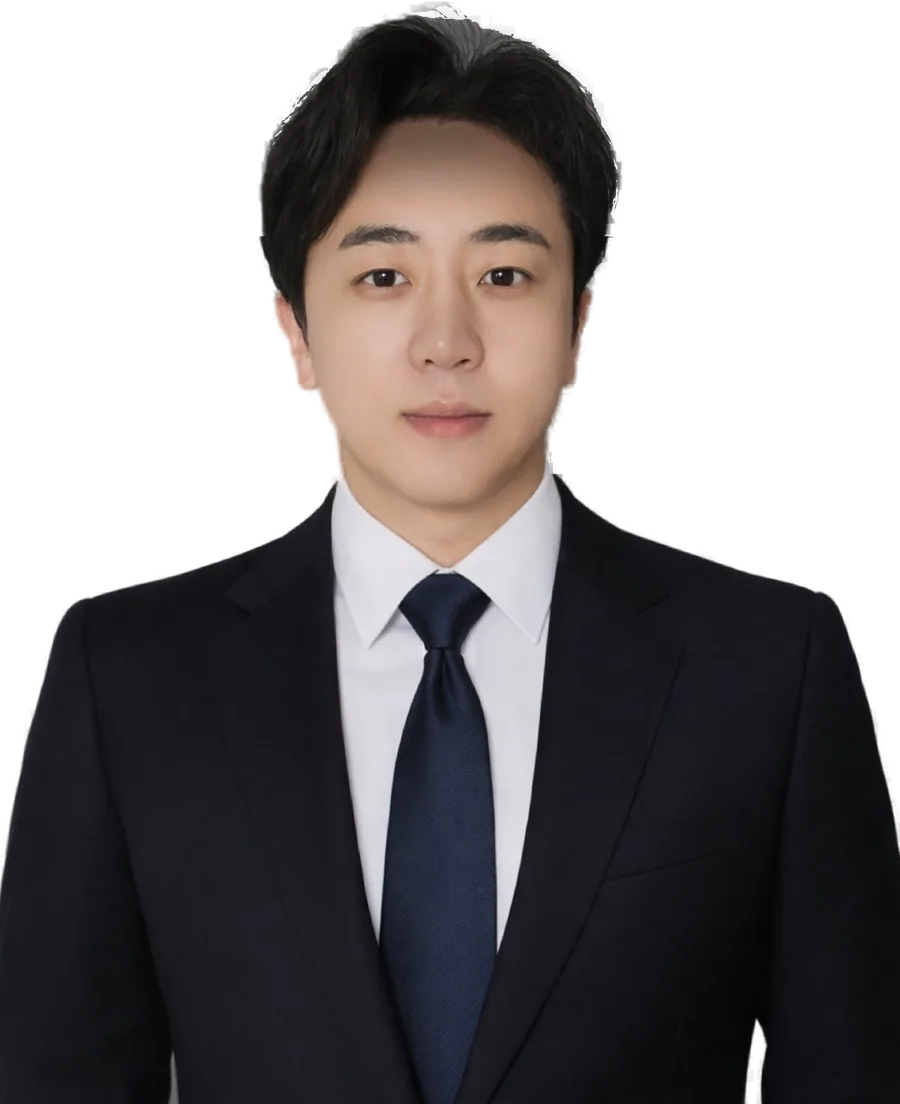
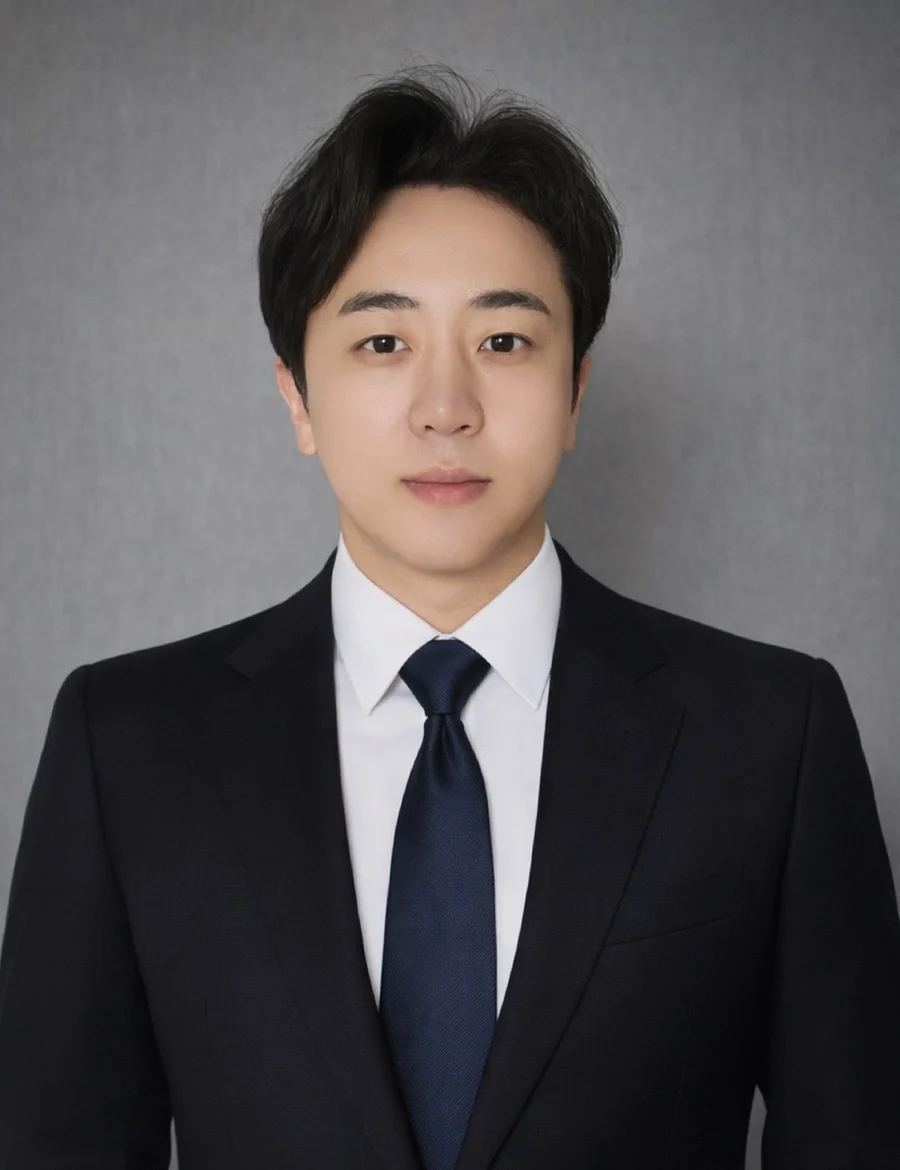
사진 원본으로 교체, 블로그 목록을 feed.json으로 새로 그림, 자동 갱신 스크립트

diff --git a/index.html b/index.html
@@ -295,7 +295,7 @@ footer img{height:20px;width:auto}
 
 <section class="person" id="person">
   <div class="wrap">
-    <img class="pic" src="assets/portrait.webp" alt="박성진 대표세무사" width="900" height="1104" loading="lazy">
+    <img class="pic" src="assets/portrait.webp" alt="박성진 대표세무사" width="900" height="1170" loading="lazy">
     <div class="who">
       <p class="name"><strong>박성진</strong> 세무사</p>
       <p class="role">세무법인 이움 중앙지점 대표세무사</p>
@@ -364,7 +364,7 @@ footer img{height:20px;width:auto}
   <div class="wrap">
     <h2>세무 이야기는 블로그에 꾸준히 씁니다.</h2>
     <p class="sub">실제 상담에서 나온 질문을 글로 풀어 둡니다. 새 글이 올라오면 여기에도 자동으로 바뀝니다.</p>
-    <ul class="cards"><li><a href="https://blog.naver.com/tax4320/224444434763" target="_blank" rel="noopener"><img src="feed/httpsblognavercomtax4320224444434763.webp" alt="" width="640" height="360" loading="lazy"><span class="meta">네이버 블로그 · 2026.10.22</span><b>분양권 증여일과 신고기한부터, 배우자 증여 상담에서 확인한 다섯 가지</b></a></li>
+    <ul class="cards" id="feed-cards"><li><a href="https://blog.naver.com/tax4320/224444434763" target="_blank" rel="noopener"><img src="feed/httpsblognavercomtax4320224444434763.webp" alt="" width="640" height="360" loading="lazy"><span class="meta">네이버 블로그 · 2026.10.22</span><b>분양권 증여일과 신고기한부터, 배우자 증여 상담에서 확인한 다섯 가지</b></a></li>
 <li><a href="https://ctasjpark.com/51" target="_blank" rel="noopener"><img src="feed/httpsctasjparkcom51.webp" alt="" width="640" height="360" loading="lazy"><span class="meta">티스토리 · 2026.10.21</span><b>상속받은 부동산 양도세 취득가액, 상속세 0원이어도 감정평가가 갈라놓습니다 (소득세법 시행령 제163조 제9항&middot;대법원 2022두67357)</b></a></li>
 <li><a href="https://blog.naver.com/tax4320/224442433604" target="_blank" rel="noopener"><img src="feed/httpsblognavercomtax4320224442433604.webp" alt="" width="640" height="360" loading="lazy"><span class="meta">네이버 블로그 · 2026.10.21</span><b>상속받은 부동산 양도세, 상속세가 0원이어도 감정평가를 받아 두는 이유</b></a></li>
 <li><a href="https://ctasjpark.com/50" target="_blank" rel="noopener"><img src="feed/httpsctasjparkcom50.webp" alt="" width="640" height="360" loading="lazy"><span class="meta">티스토리 · 2026.10.20</span><b>DC형 퇴직연금 부담금, 성과급도 넣어야 하나 (근로자퇴직급여 보장법 제20조&middot;대법원 2022다255454)</b></a></li>
@@ -443,6 +443,12 @@ const ev=[];for(let y=today.getFullYear();y<=today.getFullYear()+1;y++)for(const
  for(const mm of (monthly?[1,2,3,4,5,6,7,8,9,10,11,12]:[m])){const d=shift(new Date(y,mm-1,day));if(d>=today)ev.push({d,name,why})}}
 ev.sort((a,b)=>a.d-b.d);const pick=[],seen=new Set();for(const e of ev){if(e.name.startsWith('원천세')&&seen.has('원천세'))continue;seen.add(e.name.slice(0,3));pick.push(e);if(pick.length===4)break}
 box.innerHTML=pick.map(e=>{const n=Math.round((e.d-today)/864e5);return '<li><span class="d">'+(n===0?'D-day':'D-'+n)+'</span><b>'+e.name+'</b><span class="t">'+e.d.getFullYear()+'년 '+(e.d.getMonth()+1)+'월 '+e.d.getDate()+'일('+W[e.d.getDay()]+')</span><span class="w">'+e.why+'</span></li>'}).join('')})();
+(()=>{const ul=document.getElementById('feed-cards');if(!ul)return;
+// 매일 새벽 GitHub가 feed/feed.json을 새로 받아 둔다. 페이지는 그 파일로 목록을 다시 그린다(못 읽으면 처음 목록 그대로).
+const e=t=>String(t).replace(/[&<>"']/g,c=>({'&':'&amp;','<':'&lt;','>':'&gt;','"':'&quot;',"'":'&#39;'}[c]));
+fetch('feed/feed.json?v='+Math.floor(Date.now()/36e5)).then(r=>r.ok?r.json():null).then(a=>{if(!a||!a.length)return;
+ ul.innerHTML=a.slice(0,6).map(x=>'<li><a href="'+e(x.link)+'" target="_blank" rel="noopener">'+(x.thumb?'<img src="'+e(x.thumb)+'" alt="" width="640" height="360" loading="lazy">':'<span class="noimg"></span>')
+ +'<span class="meta">'+e(x.ch)+' · '+e(x.date)+'</span><b>'+e(x.title)+'</b></a></li>').join('')}).catch(()=>{})})();
 </script>
 
 <div class="float" aria-label="빠른 상담"><a href="http://pf.kakao.com/_IBafX/chat" target="_blank" rel="noopener">카카오톡</a><a href="tel:02-545-5328">02-545-5328</a></div>

diff --git a/calc.html b/calc.html
@@ -362,6 +362,12 @@ const ev=[];for(let y=today.getFullYear();y<=today.getFullYear()+1;y++)for(const
  for(const mm of (monthly?[1,2,3,4,5,6,7,8,9,10,11,12]:[m])){const d=shift(new Date(y,mm-1,day));if(d>=today)ev.push({d,name,why})}}
 ev.sort((a,b)=>a.d-b.d);const pick=[],seen=new Set();for(const e of ev){if(e.name.startsWith('원천세')&&seen.has('원천세'))continue;seen.add(e.name.slice(0,3));pick.push(e);if(pick.length===4)break}
 box.innerHTML=pick.map(e=>{const n=Math.round((e.d-today)/864e5);return '<li><span class="d">'+(n===0?'D-day':'D-'+n)+'</span><b>'+e.name+'</b><span class="t">'+e.d.getFullYear()+'년 '+(e.d.getMonth()+1)+'월 '+e.d.getDate()+'일('+W[e.d.getDay()]+')</span><span class="w">'+e.why+'</span></li>'}).join('')})();
+(()=>{const ul=document.getElementById('feed-cards');if(!ul)return;
+// 매일 새벽 GitHub가 feed/feed.json을 새로 받아 둔다. 페이지는 그 파일로 목록을 다시 그린다(못 읽으면 처음 목록 그대로).
+const e=t=>String(t).replace(/[&<>"']/g,c=>({'&':'&amp;','<':'&lt;','>':'&gt;','"':'&quot;',"'":'&#39;'}[c]));
+fetch('feed/feed.json?v='+Math.floor(Date.now()/36e5)).then(r=>r.ok?r.json():null).then(a=>{if(!a||!a.length)return;
+ ul.innerHTML=a.slice(0,6).map(x=>'<li><a href="'+e(x.link)+'" target="_blank" rel="noopener">'+(x.thumb?'<img src="'+e(x.thumb)+'" alt="" width="640" height="360" loading="lazy">':'<span class="noimg"></span>')
+ +'<span class="meta">'+e(x.ch)+' · '+e(x.date)+'</span><b>'+e(x.title)+'</b></a></li>').join('')}).catch(()=>{})})();
 </script>
 
 <div class="float" aria-label="빠른 상담"><a href="http://pf.kakao.com/_IBafX/chat" target="_blank" rel="noopener">카카오톡</a><a href="tel:02-545-5328">02-545-5328</a></div>

diff --git a/price.html b/price.html
@@ -361,6 +361,12 @@ const ev=[];for(let y=today.getFullYear();y<=today.getFullYear()+1;y++)for(const
  for(const mm of (monthly?[1,2,3,4,5,6,7,8,9,10,11,12]:[m])){const d=shift(new Date(y,mm-1,day));if(d>=today)ev.push({d,name,why})}}
 ev.sort((a,b)=>a.d-b.d);const pick=[],seen=new Set();for(const e of ev){if(e.name.startsWith('원천세')&&seen.has('원천세'))continue;seen.add(e.name.slice(0,3));pick.push(e);if(pick.length===4)break}
 box.innerHTML=pick.map(e=>{const n=Math.round((e.d-today)/864e5);return '<li><span class="d">'+(n===0?'D-day':'D-'+n)+'</span><b>'+e.name+'</b><span class="t">'+e.d.getFullYear()+'년 '+(e.d.getMonth()+1)+'월 '+e.d.getDate()+'일('+W[e.d.getDay()]+')</span><span class="w">'+e.why+'</span></li>'}).join('')})();
+(()=>{const ul=document.getElementById('feed-cards');if(!ul)return;
+// 매일 새벽 GitHub가 feed/feed.json을 새로 받아 둔다. 페이지는 그 파일로 목록을 다시 그린다(못 읽으면 처음 목록 그대로).
+const e=t=>String(t).replace(/[&<>"']/g,c=>({'&':'&amp;','<':'&lt;','>':'&gt;','"':'&quot;',"'":'&#39;'}[c]));
+fetch('feed/feed.json?v='+Math.floor(Date.now()/36e5)).then(r=>r.ok?r.json():null).then(a=>{if(!a||!a.length)return;
+ ul.innerHTML=a.slice(0,6).map(x=>'<li><a href="'+e(x.link)+'" target="_blank" rel="noopener">'+(x.thumb?'<img src="'+e(x.thumb)+'" alt="" width="640" height="360" loading="lazy">':'<span class="noimg"></span>')
+ +'<span class="meta">'+e(x.ch)+' · '+e(x.date)+'</span><b>'+e(x.title)+'</b></a></li>').join('')}).catch(()=>{})})();
 </script>
 
 <div class="float" aria-label="빠른 상담"><a href="http://pf.kakao.com/_IBafX/chat" target="_blank" rel="noopener">카카오톡</a><a href="tel:02-545-5328">02-545-5328</a></div>

diff --git a/.github/scripts/feed_update.py b/.github/scripts/feed_update.py
@@ -1,0 +1,65 @@
+# 블로그 최근 글을 RSS로 읽어 썸네일을 받아 두고 feed/feed.json에 쓴다. GitHub Actions가 매일 돌린다(.github/workflows/feed.yml).
+# 원본 = Drive 홈페이지 작업폴더 _피드갱신.py (출력 위치만 다르다)
+import json, pathlib, re, html, io, urllib.request, email.utils
+from PIL import Image
+
+ROOT = pathlib.Path(__file__).resolve().parents[2]
+OUT = ROOT / "feed"; OUT.mkdir(parents=True, exist_ok=True)
+UA = {"User-Agent": "Mozilla/5.0 (Windows NT 10.0; Win64; x64) Chrome/141 Safari/537.36"}
+SOURCES = [  # (채널 이름, RSS 주소, 가져올 글 수)
+    ("네이버 블로그", "https://rss.blog.naver.com/tax4320.xml", 6),
+    ("티스토리", "https://ctasjpark.com/rss", 3),
+    ("티스토리", "https://111.ctasjpark.com/rss", 3),
+]
+
+def get(url, ref=None):
+    h = dict(UA)
+    if ref: h["Referer"] = ref
+    return urllib.request.urlopen(urllib.request.Request(url, headers=h), timeout=30).read()
+
+def tag(it, name):
+    m = re.search(rf"<{name}>(.*?)</{name}>", it, re.S)
+    if not m: return ""
+    v = m.group(1).strip()
+    v = re.sub(r"^<!\[CDATA\[(.*)\]\]>$", r"\1", v, flags=re.S)
+    return html.unescape(v).strip()
+
+def first_img(it, link):
+    d = html.unescape(it)
+    for m in re.finditer(r"""\ssrc=["'](https?://[^"']+\.(?:png|jpe?g|webp|gif)[^"']*)""", d, re.I):  # onerror 안의 대체 그림은 건너뛴다
+        if "no-image" not in m.group(1): return m.group(1)
+    try:  # 본문에 그림이 없으면 글 페이지의 대표 이미지(og:image)
+        page = get(link).decode("utf-8", "ignore")
+        m = re.search(r'<meta[^>]+property=["\']og:image["\'][^>]+content=["\']([^"\']+)', page)
+        return html.unescape(m.group(1)) if m else ""
+    except Exception:
+        return ""
+
+items = []
+for ch, url, n in SOURCES:
+    xml = get(url).decode("utf-8", "ignore")
+    for it in re.findall(r"<item>(.*?)</item>", xml, re.S)[:n]:
+        link = tag(it, "link").split("?fromRss")[0]
+        d = email.utils.parsedate_to_datetime(tag(it, "pubDate"))
+        key = re.sub(r"\W", "", link)[-40:]
+        thumb = ""
+        src = first_img(it, link)
+        if src:
+            try:
+                im = Image.open(io.BytesIO(get(src, ref=link))).convert("RGB")
+                w, h = im.size; t = 16 / 9  # 가운데를 16:9로 잘라 640x360
+                if w / h > t: im = im.crop(((w - h * t) / 2, 0, (w + h * t) / 2, h))
+                else: im = im.crop((0, (h - w / t) / 2, w, (h + w / t) / 2))
+                im = im.resize((640, 360), Image.LANCZOS)
+                im.save(OUT / f"{key}.webp", "WEBP", quality=78); thumb = f"feed/{key}.webp"
+            except Exception as e:
+                print("썸네일 실패", link, e)
+        items.append({"ch": ch, "title": tag(it, "title"), "link": link, "date": d.strftime("%Y.%m.%d"), "ts": d.timestamp(), "thumb": thumb})
+
+items.sort(key=lambda x: -x["ts"])
+# 지난 썸네일 중 지금 목록에 없는 것은 지운다
+keep = {pathlib.Path(x["thumb"]).name for x in items if x["thumb"]}
+for f in OUT.glob("*.webp"):
+    if f.name not in keep: f.unlink()
+(OUT / "feed.json").write_text(json.dumps(items, ensure_ascii=False, indent=1), encoding="utf-8")
+print(len(items), "편", sum(1 for x in items if x["thumb"]), "썸네일")
